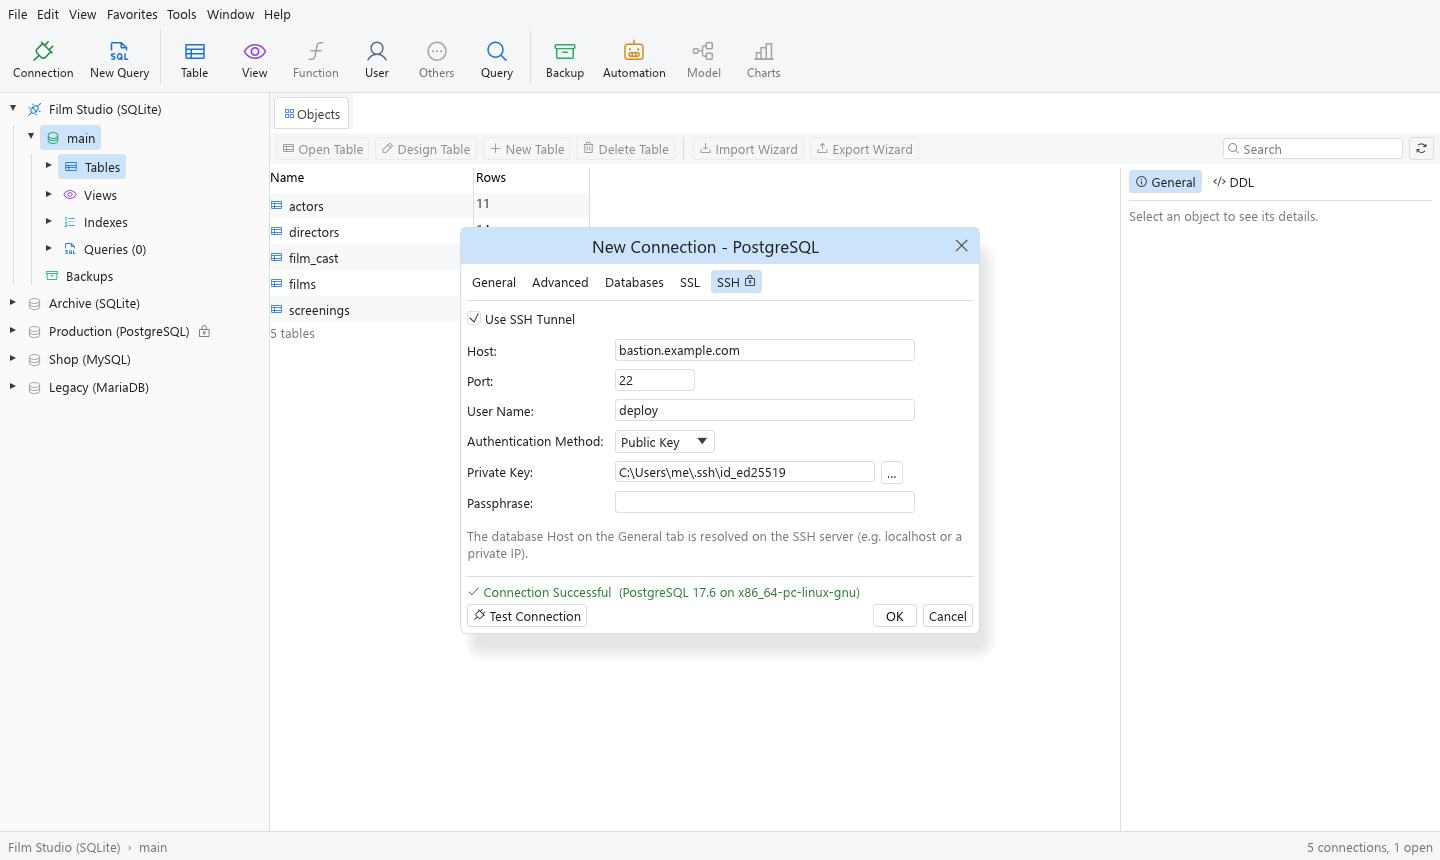
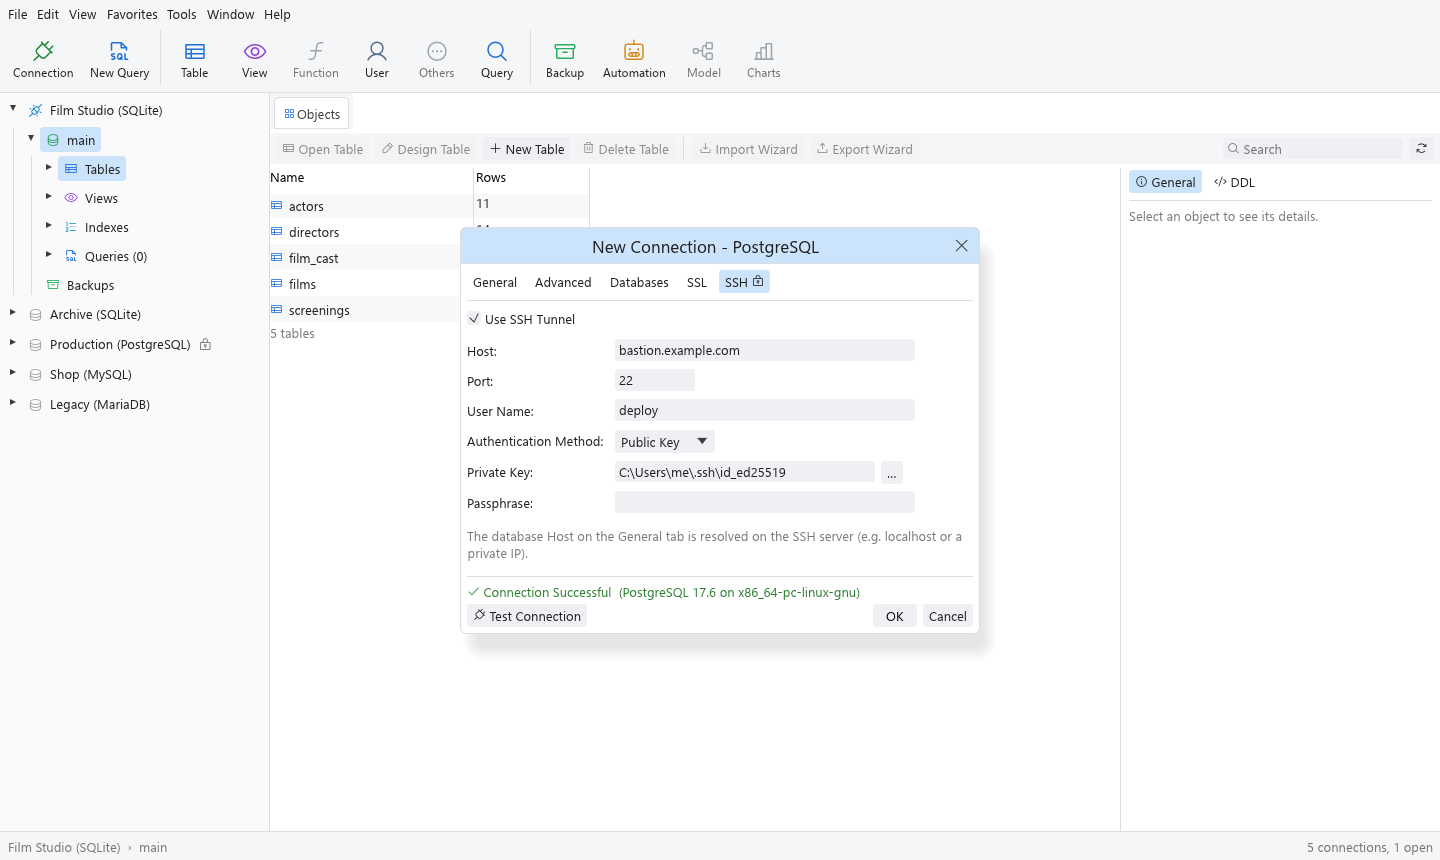
Buttons no longer grow on hover (owner report)
egui sizes a frameless button's resting state without a border, so the
1 px resting border made every frameless button grow 2 px on hover and
push its neighbours. Controls now rest with a soft fill and no border;
hover and press show a border that egui fits inside the same size.
Regression test hovers framed and frameless buttons and checks the
neighbours stay put. README screenshots regenerated.

Changed region(s): [[0.0, 0.1209, 0.125, 0.4837], [0.3438, 0.3023, 0.5312, 0.3326], [0.3438, 0.1512, 0.375, 0.1814]]

diff --git a/crates/ui-egui/src/theme.rs b/crates/ui-egui/src/theme.rs
@@ -30,6 +30,8 @@ pub struct Palette {
     pub error: Color32,
     pub success: Color32,
     pub closed: Color32,
+    /// Resting fill of buttons, fields, check boxes (they have no border at rest; see `visuals`).
+    pub control: Color32,
     pub dark: bool,
 }
 
@@ -53,6 +55,7 @@ pub const LIGHT: Palette = Palette {
     error: Color32::from_rgb(0xc6, 0x28, 0x28),
     success: Color32::from_rgb(0x2e, 0x7d, 0x32),
     closed: Color32::from_rgb(0xa0, 0xa4, 0xa8),
+    control: Color32::from_rgb(0xee, 0xf0, 0xf3),
     dark: false,
 };
 
@@ -77,6 +80,7 @@ pub const DARK: Palette = Palette {
     error: Color32::from_rgb(0xef, 0x6b, 0x6b),
     success: Color32::from_rgb(0x5c, 0xc4, 0x6a),
     closed: Color32::from_rgb(0x6f, 0x73, 0x78),
+    control: Color32::from_rgb(0x33, 0x36, 0x3a),
     dark: true,
 };
 
@@ -114,6 +118,7 @@ tokens!(
     stripe,
     grid_header,
     tab_inactive,
+    control,
     edited,
     inserted,
     deleted,
@@ -187,9 +192,13 @@ fn visuals() -> Visuals {
     let r = CornerRadius::same(3);
     v.widgets.noninteractive.bg_stroke = Stroke::new(1.0, p.border);
     v.widgets.noninteractive.corner_radius = r;
-    v.widgets.inactive.weak_bg_fill = Color32::TRANSPARENT;
-    v.widgets.inactive.bg_fill = p.bg;
-    v.widgets.inactive.bg_stroke = Stroke::new(1.0, p.border);
+    // No border at rest, a fill instead: egui sizes a frameless button's resting state without a
+    // border, so a resting border wider than zero makes buttons grow 2 px on hover and push their
+    // neighbours. Hover and press show a border that egui fits inside the same size.
+    v.widgets.inactive.weak_bg_fill = p.control;
+    v.widgets.inactive.bg_fill = p.control;
+    v.widgets.inactive.bg_stroke = Stroke::NONE;
+    v.text_edit_bg_color = Some(p.control);
     v.widgets.inactive.corner_radius = r;
     v.widgets.hovered.weak_bg_fill = p.hover;
     v.widgets.hovered.bg_fill = p.hover;

diff --git a/crates/ui-egui/tests/ui_options.rs b/crates/ui-egui/tests/ui_options.rs
@@ -113,3 +113,33 @@ fn the_dialog_keeps_its_size() {
     h.run();
     assert_eq!(h.state().state.options_form.as_ref().map(|f| f.page), Some(dbcraft_ui_egui::options_dialog::OptionsPage::Editor));
 }
+
+/// Regression (owner report): hovering a button added a border that grew it and pushed its
+/// neighbours. Framed and frameless buttons must keep their size on hover.
+#[test]
+fn hover_never_moves_neighbours() {
+    let (_d, s) = setup("hover");
+    let mut app = DbCraftApp::new(s, None).waiting_for_tasks();
+    app.startup(StartupAction::NewQuery { connection: "lite".into(), database: Some("main".into()), sql: String::new() });
+    let mut h = harness(app);
+    h.run();
+    // Framed button: Save, its neighbour Save As.
+    let before = h.get_by_label("Save As").rect();
+    h.get_by_label(&format!("{} Save", egui_phosphor::regular::FLOPPY_DISK)).hover();
+    h.run();
+    assert_eq!(h.get_by_label("Save As").rect(), before, "framed button");
+    // Frameless selectable buttons: the Designer's page strip.
+    h.state_mut().state.tabs.push(Tab::Designer(Box::new(dbcraft_ui_egui::designer_tab::DesignerTab::new_table(
+        "lite".into(),
+        Some("main".into()),
+        None,
+        dbcraft_sql::Dialect::Sqlite,
+    ))));
+    let last = h.state().state.tabs.len() - 1;
+    h.state_mut().state.active_tab = last;
+    h.run();
+    let before = h.get_by_label("Foreign Keys").rect();
+    h.get_by_label("Indexes").hover();
+    h.run();
+    assert_eq!(h.get_by_label("Foreign Keys").rect(), before, "frameless button");
+}

diff --git a/AGENTS.md b/AGENTS.md
@@ -63,6 +63,7 @@ People trust a database tool with production data; a crash can lose an unsaved q
    - An auto-sized `egui::Window` with a vertical separator (or anything that fills the available height) grows every frame, and clicks then land below their target. Give dialogs `fixed_size`, and assert that a rect stays put across frames.
    - Inside an `egui::Grid`, a `TextEdit` with `desired_width` shrinks to the column's width from the last frame and never grows: use `ui.add_sized([w, 20.0], TextEdit…)`.
    - After a click that opens a new tab, the pointer stays put over the new tab's widgets (a tooltip can then flicker forever and `run()` never settles): `step()`, then send `egui::Event::PointerGone`.
+   - Controls have no border at rest (fills instead): egui sizes a frameless button's resting state without a border, so any resting `bg_stroke` width makes buttons grow on hover and push their neighbours (owner report; `ui_options::hover_never_moves_neighbours`).
    - Build test apps with `DbCraftApp::new(..).waiting_for_tasks()` so queries, opening and page loads finish before the next frame. Only `ui_async.rs` leaves it off on purpose, to test the asynchronous path.
 7. **Secrets are sacred.** Never log passwords or full connection strings, never return passwords from `connection.list` or MCP, never commit credentials (dev docker creds excepted).
 8. **Long work runs in the background; the UI thread never waits on a server.** Interactive work (opening, queries, table pages, object lists, DDL) runs as a `tasks::Task` over `Session::fork_shared` (shared connections, Stop with Ctrl+T, results merged back with `Session::absorb`). Long tools (transfer, backup, restore, batch jobs) run as `jobs::Job::spawn(ctx, &session, command, params)`: a forked `Session` with its own connections on a worker thread, progress lines through `Session::report`, results polled in `DbCraftApp::poll_jobs`. Engine commands meant for jobs open connections on demand (`Session::conn_auto`) and are `enabled: always`. Drivers must keep every call cancellable (go through `common::block_on`) and register a server-side stop for long statements (`common::on_cancel`).
